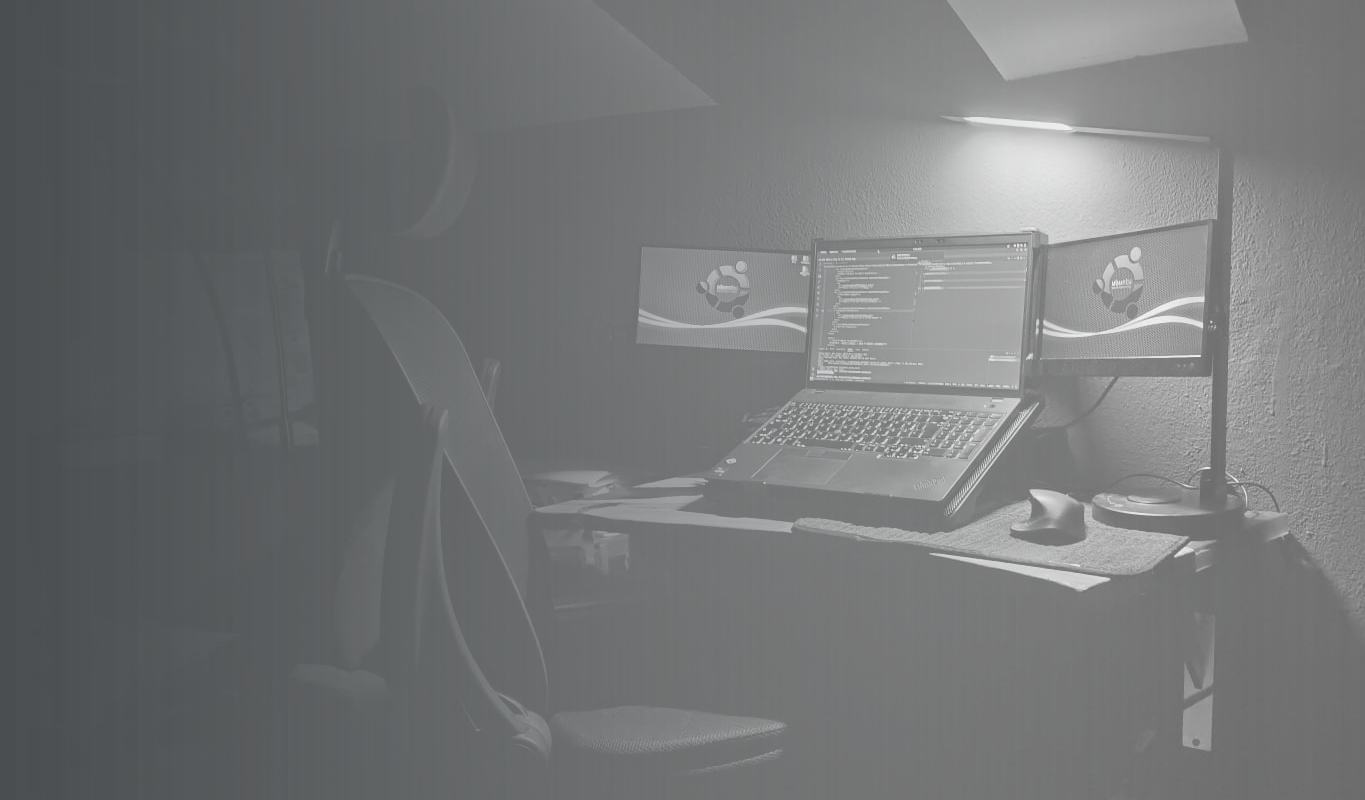
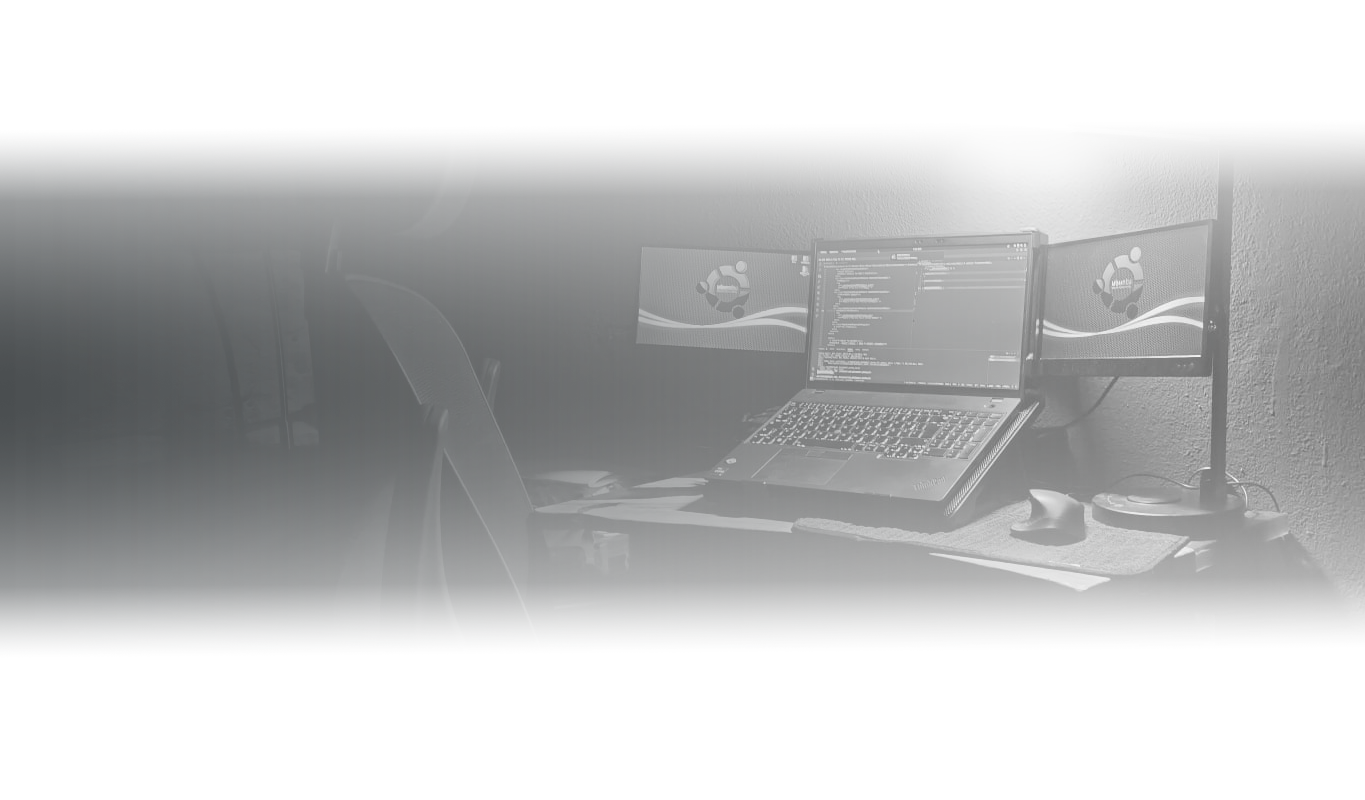
start of construction of the 'Projects' page

diff --git a/src/components/projects.html b/src/components/projects.html
@@ -26,58 +26,72 @@
     <!-- IMPORT CSS style  -->
     <link rel="stylesheet" href="../styles/css/main.css" />
   </head>
-<body>
-  <header class="headerGlobal">
-    <div class="logo">
-      <img src="../assets/images/deo_iconBW.webp" alt="">
-    </div>
-    <nav class="menuNavigation">
-      <a href="../index.html">Home</a>
-      <a href="../components/about.html">About</a>
-      <a href="../components/projects.html">Projects</a>
-      <a href="../components/blog.html">Blog</a>
-      <a href="../components/contact.html">Contacts</a>
-      <div class="search">
-        <i class="fas fa-search" onclick="toggleSearch()"></i>
-        <form id="searchForm" onsubmit="submitSearch(event)">
-          <input type="text" placeholder="Search" id="searchInput" />
-          <button type="submit">
-            <i class="fas fa-search"></i>
-          </button>
-        </form>
+  <body>
+    <header class="headerGlobal">
+      <div class="logo">
+        <img src="../assets/images/deo_iconBW.webp" alt="" />
       </div>
-    </nav>
-  </header>
+      <nav class="menuNavigation">
+        <a href="../index.html">Home</a>
+        <a href="../components/about.html">About</a>
+        <a href="../components/projects.html">Projects</a>
+        <a href="../components/blog.html">Blog</a>
+        <a href="../components/contact.html">Contacts</a>
+        <div class="search">
+          <i class="fas fa-search" onclick="toggleSearch()"></i>
+          <form id="searchForm" onsubmit="submitSearch(event)">
+            <input type="text" placeholder="Search" id="searchInput" />
+            <button type="submit">
+              <i class="fas fa-search"></i>
+            </button>
+          </form>
+        </div>
+      </nav>
+    </header>
 
-  <aside class="asideGlobal">
-    <div class="menuNavigationAsideGlobal">
-      <div id="burger-menu">
-        <div class="burgerMenu">
-          <span class="bar one"></span>
-          <span class="bar two"></span>
-          <span class="bar three"></span>
+    <aside class="asideGlobal">
+      <div class="menuNavigationAsideGlobal">
+        <div id="burger-menu">
+          <div class="burgerMenu">
+            <span class="bar one"></span>
+            <span class="bar two"></span>
+            <span class="bar three"></span>
+          </div>
+        </div>
+        <div id="menuNavigationAside" class="menuNavigationAside">
+          <ul>
+            <li><a href="#">Home</a></li>
+            <li><a href="#">About</a></li>
+            <li><a href="#">Projects</a></li>
+            <li><a href="#">Contact</a></li>
+            <li><a href="#">Blog</a></li>
+          </ul>
         </div>
       </div>
-      <div id="menuNavigationAside" class="menuNavigationAside">
-        <ul>
-          <li><a href="#">Home</a></li>
-          <li><a href="#">About</a></li>
-          <li><a href="#">Projects</a></li>
-          <li><a href="#">Contact</a></li>
-          <li><a href="#">Blog</a></li>
-        </ul>
+      <div class="menuNavigationAsideMedia">
+        <i class="fa-brands fa-linkedin"></i>
+        <i class="fa-brands fa-github"></i>
+        <i class="fa-brands fa-instagram"></i>
       </div>
-    </div>
-    <div class="menuNavigationAsideMedia">
-      <i class="fa-brands fa-linkedin"></i>
-      <i class="fa-brands fa-github"></i>
-      <i class="fa-brands fa-instagram"></i>
-    </div>
-  </aside>
-  <footer>
-    <i class="fa-regular fa-copyright"></i>
-    <p>Copyright - Deolindo Baptista | All rights reserved</p>
-  </footer>
-  <script src="../scripts/index.js"></script>
-</body>
+    </aside>
+
+    <main>
+      <section class="projectsMainGlobal">
+        <section class="projectsMainGlobalPresentationImage"></section>
+        <section class="projectsMainGlobalPresentationTitle">
+          <h2>P</h2>
+          <h3>rojects</h3>
+        </section>
+      </section>
+      <section class="projectstSubMainGlobal test">
+        <h3>projects</h3>
+      </section>
+    </main>
+
+    <footer>
+      <i class="fa-regular fa-copyright"></i>
+      <p>Copyright - Deolindo Baptista | All rights reserved</p>
+    </footer>
+    <script src="../scripts/index.js"></script>
+  </body>
 </html>

diff --git a/src/styles/css/main.css b/src/styles/css/main.css
@@ -39,7 +39,7 @@ body {
 
 .menuNavigationAsideGlobal {
   width: 100%;
-  height: 6.25rem;
+  height: 11.55vh;
 }
 .menuNavigationAsideGlobal #burger-menu {
   display: flex;
@@ -161,7 +161,7 @@ footer {
   display: flex;
   justify-content: center;
   align-items: center;
-  margin: 2em 10em;
+  height: 10.155vh;
 }
 
 .mainSectionContactsForm {
@@ -300,7 +300,7 @@ footer {
   position: fixed;
   top: 0;
   left: 0;
-  width: 100px;
+  width: 5.2vw;
   height: 100vh;
   background-color: transparent;
   border-right: 2px solid #555658;
@@ -311,10 +311,10 @@ footer {
   flex-direction: column;
   align-items: center;
   justify-content: space-evenly;
-  height: 20%;
+  height: 20rem;
 }
 .asideGlobal .menuNavigationAsideMedia .fa-brands {
-  font-size: 1.5em;
+  font-size: 1.5rem;
   transform: rotate(-90deg);
 }
 .asideGlobal .menuNavigationAsideMedia .fa-brands:hover {
@@ -869,10 +869,46 @@ footer {
   color: #000000;
 }
 
+.projectsMainGlobal {
+  height: 100vh;
+  display: flex;
+  position: relative;
+}
+.projectsMainGlobal .projectsMainGlobalPresentation {
+  position: relative;
+}
+.projectsMainGlobal .projectsMainGlobalPresentationTitle h2 {
+  position: absolute;
+  font-size: clamp(0.5rem, 40vw, 48rem);
+  margin-top: 1%;
+  margin-left: 15.5%;
+  z-index: -3;
+}
+.projectsMainGlobal .projectsMainGlobalPresentationTitle h3 {
+  position: absolute;
+  font-size: clamp(0.5rem, 10vw, 5rem);
+  margin-top: 44%;
+  margin-left: 27%;
+  z-index: -3;
+  letter-spacing: 0.5rem;
+}
+.projectsMainGlobal::before {
+  content: "";
+  position: absolute;
+  top: 0;
+  left: 0;
+  width: 100%;
+  height: 100%;
+  z-index: -1;
+  background: url(../../../assets/images/projectsBackground.webp);
+  background-size: 20%;
+  background-repeat: no-repeat;
+}
+
 .contactMainGlobal {
   display: flex;
   align-items: center;
-  height: 79.5vh;
+  height: 79.69vh;
 }
 .contactMainGlobal .contactMainContactMe,
 .contactMainGlobal .contactMainContactForm {

diff --git a/src/styles/sass/pages/_projects.scss b/src/styles/sass/pages/_projects.scss
@@ -1,0 +1,73 @@
+@use "../abstracts/colors" as *;
+@use "../abstracts/hyperlinks" as *;
+
+.projectsMainGlobal {
+  height: 100vh;
+  display: flex;
+  position: relative;
+
+  // .projectsMainGlobalPresentationTitle h2 {
+  //   position: absolute;
+  //   font-size: clamp(1rem, 12vw, 5rem);
+  //   margin-top: 6%;
+  //   margin-left: -5.2%;
+  //   z-index: -3;
+  //   samp {
+  //     font-size: clamp(.5rem, 40vw, 48rem);
+  //   }
+  // }
+
+  // .projectsMainGlobalPresentationTitle::before {
+  //   content: "";
+  //   position: absolute;
+  //   top: 0;
+  //   left: 0;
+  //   width: 100%;
+  //   height: 100%;
+  //   z-index: -1;
+  //   /* Adicione aqui o estilo desejado para o pseudo-elemento ::before */
+  // }
+
+  // .projectsMainGlobalPresentationImage {
+  //   position: relative;
+  //   width: 20%;
+  //   img {
+  //     width: 100%;
+  //     z-index: 1;
+  //   }
+  // }
+
+  .projectsMainGlobalPresentation {
+    position: relative;
+  }
+  .projectsMainGlobalPresentationTitle {
+    h2 {
+      position: absolute;
+      font-size: clamp(0.5rem, 40vw, 48rem);
+      margin-top: 1%;
+      margin-left: 15.5%;
+      z-index: -3;
+    }
+    h3 {
+      position: absolute;
+      font-size: clamp(0.5rem, 10vw, 5rem);
+      margin-top: 44%;
+      margin-left: 27%;
+      z-index: -3;
+      letter-spacing: .5rem;
+    }
+  }
+
+  &::before {
+    content: "";
+    position: absolute;
+    top: 0;
+    left: 0;
+    width: 100%;
+    height: 100%;
+    z-index: -1;
+    background: $background_4;
+    background-size: 20%;
+    background-repeat: no-repeat;
+  }
+}

diff --git a/src/styles/sass/layout/_asidebar.scss b/src/styles/sass/layout/_asidebar.scss
@@ -8,7 +8,7 @@
   position: fixed;
   top: 0;
   left: 0;
-  width: 100px;
+  width: 5.2vw;
   height: 100vh;
   background-color: transparent;
   border-right: 2px solid $color_2;
@@ -18,9 +18,9 @@
     flex-direction: column;
     align-items: center;
     justify-content: space-evenly;
-    height: 20%;
+    height: 20rem;
     .fa-brands {
-      font-size: 1.5em;
+      font-size: 1.5rem;
       transform: rotate(-90deg);
       &:hover{
         color: $color_3;

diff --git a/src/styles/sass/abstracts/_colors.scss b/src/styles/sass/abstracts/_colors.scss
@@ -28,3 +28,4 @@ $background-color_6: linear-gradient(
 $background_1: url(../../../assets/images/backgroundDesktop.webp); // main background
 $background_2: url(../../../assets/images/computerInTheDark.webp); // main background
 $background_3: url(../../../assets/images/aboutMeBackground.webp); // main background
+$background_4: url(../../../assets/images/projectsBackground.webp); // main background

diff --git a/src/styles/sass/pages/_contact.scss b/src/styles/sass/pages/_contact.scss
@@ -4,7 +4,7 @@
 .contactMainGlobal {
   display: flex;
   align-items: center;
-  height: 79.5vh;
+  height: 79.69vh;
   .contactMainContactMe,
   .contactMainContactForm {
     width: 50%;

diff --git a/src/styles/sass/layout/_footer.scss b/src/styles/sass/layout/_footer.scss
@@ -5,7 +5,7 @@ footer {
     display: flex;
     justify-content: center;
     align-items: center;
-    margin: 2em 10em;
+    height: 10.155vh;
 }
 
 

diff --git a/src/styles/sass/components/_burgerMenu.scss b/src/styles/sass/components/_burgerMenu.scss
@@ -2,7 +2,7 @@
 
 .menuNavigationAsideGlobal {
   width: 100%;
-  height: 6.25rem;
+  height: 11.55vh;
 
   #burger-menu {
     display: flex;
